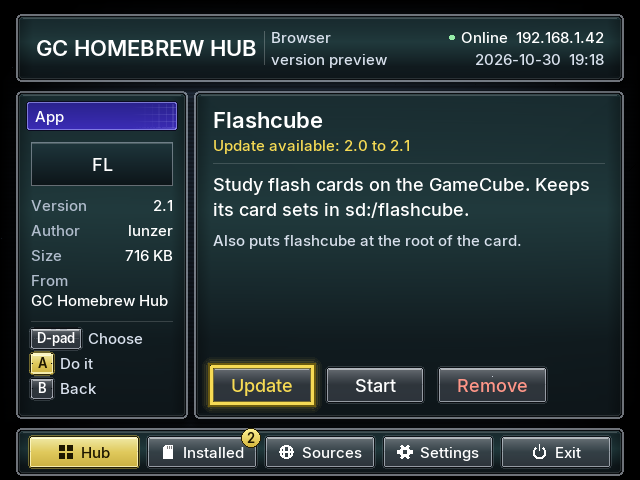
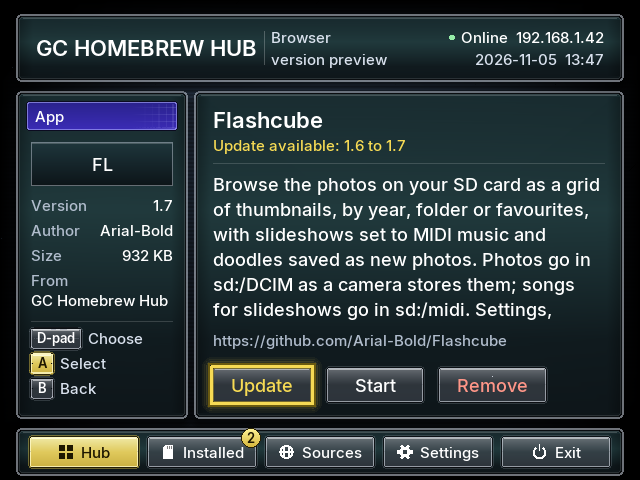
Preview: use a copy of the real catalog
The sample apps were made up, and some had wrong credits: Flashcube was
credited to "lunzer" and described as flash cards. The preview now reads
tools/preview/catalog.json, a copy of the catalog's index.json, and the
README's screenshots are rendered from it. Which apps are installed, and
the extra sources, are still samples, and the README says so.

diff --git a/tools/preview/preview.c b/tools/preview/preview.c
@@ -1,7 +1,8 @@
 /* preview.c - renders the program's screens on a PC, for looking at the UI
  * without a GameCube. The real menu, screens and widgets run against the
- * software GX in gx_soft.c, a made-up card and catalog, and a script of
- * button presses; chosen frames are written as PPM images.
+ * software GX in gx_soft.c, a copy of the real catalog (catalog.json), a
+ * made-up card, and a script of button presses; chosen frames are written as
+ * PPM images.
  *
  * Runs inside a folder with a directory literally named "sd:" (the card). */
 #include "catalog.h"
@@ -70,33 +71,21 @@ u32 input_pressed(void) { return pressed; }
 u32 input_held(void) { return 0; }
 void input_sticks(float *x, float *y, float *cx, float *cy) { *x = stick[0]; *y = stick[1]; *cx = stick[2]; *cy = stick[3]; }
 
-/* ---- a made-up catalog and card ---- */
+/* ---- a copy of the real catalog, and a made-up card ---- */
 
-static const char *index_json =
-"{ \"format\": 1, \"name\": \"GC Homebrew Hub\", \"apps\": ["
-"{\"slug\":\"swiss\",\"name\":\"Swiss\",\"author\":\"emu_kidid\",\"version\":\"0.6r1913\",\"category\":\"utilities\","
-" \"short\":\"The Swiss army knife of GameCube homebrew\",\"long\":\"Boots games and homebrew from SD, network, IDE-EXI and more, with cheats, video mode forcing and a file manager.\",\"archive\":\"http://x/swiss.tar.xz\",\"zip_size\":11199948,"
-" \"replace_at_root\":[{\"file\":\"s/DOL/swiss.dol\",\"to\":\"ipl.dol\",\"archive\":\"swiss_archive\"},"
-" {\"file\":\"s/Apploader/EXTRACT_TO_ROOT.zip!swiss/patches/apploader.img\",\"to\":\"swiss/patches/apploader.img\",\"archive\":\"swiss_archive\"}]},"
-"{\"slug\":\"cubebrowser\",\"name\":\"CubeBrowser\",\"author\":\"Arial-Bold\",\"version\":\"1.4\",\"category\":\"utilities\","
-" \"short\":\"A web browser for the GameCube\",\"long\":\"Browse simple web pages over the Broadband Adapter.\",\"zip\":\"http://x/cb.zip\",\"zip_size\":1887436},"
-"{\"slug\":\"flashcube\",\"name\":\"Flashcube\",\"author\":\"lunzer\",\"version\":\"2.1\",\"category\":\"media\","
-" \"short\":\"Flash cards with thumbnails\",\"long\":\"Study flash cards on the GameCube. Keeps its card sets in sd:/flashcube.\",\"zip\":\"http://x/fc.zip\",\"zip_size\":734003,\"copy_to_root\":[\"flashcube\"]},"
-"{\"slug\":\"gc-mp3\",\"name\":\"GC-MP3\",\"author\":\"various\",\"version\":\"1.1\",\"category\":\"media\","
-" \"short\":\"Plays MP3 files from the SD card\",\"long\":\"A music player.\",\"dol\":\"http://x/mp3.dol\",\"binary\":\"gc-mp3.dol\"},"
-"{\"slug\":\"gbi\",\"name\":\"Game Boy Interface\",\"author\":\"Extrems\",\"version\":\"r1350\",\"category\":\"emulators\","
-" \"short\":\"Game Boy Player software, rebuilt\",\"long\":\"Low-latency Game Boy Player front end.\",\"zip\":\"http://x/gbi.zip\",\"zip_size\":2097152},"
-"{\"slug\":\"pong-cube\",\"name\":\"Pong Cube\",\"author\":\"devkitPro\",\"version\":\"1.0\",\"category\":\"games\","
-" \"short\":\"Two paddles, one ball, four controllers\",\"long\":\"A tiny game.\",\"zip\":\"http://x/pong.zip\",\"zip_size\":102400},"
-"{\"slug\":\"block-drop\",\"name\":\"Block Drop\",\"author\":\"cubedev\",\"version\":\"0.9\",\"category\":\"games\","
-" \"short\":\"Falling blocks\",\"long\":\"Stack them.\",\"zip\":\"http://x/bd.zip\",\"zip_size\":310000},"
-"{\"slug\":\"plasma\",\"name\":\"Plasma Demo\",\"author\":\"scene\",\"version\":\"1.0\",\"category\":\"demos\","
-" \"short\":\"Old-school plasma and a chiptune\",\"long\":\"A demo.\",\"zip\":\"http://x/p.zip\",\"zip_size\":220000},"
-"{\"slug\":\"neogeo-cd\",\"name\":\"Neo-Geo CD Redux\",\"author\":\"megalomaniac\",\"version\":\"1.0.3\",\"category\":\"emulators\","
-" \"short\":\"Neo-Geo CD emulator\",\"long\":\"Plays Neo-Geo CD images.\",\"zip\":\"http://x/ng.zip\",\"zip_size\":1500000},"
-"{\"slug\":\"memcard-pro\",\"name\":\"Memory Card Manager\",\"author\":\"suloku\",\"version\":\"1.4\",\"category\":\"utilities\","
-" \"short\":\"Back up and restore saves\",\"long\":\"Copies memory card saves to and from the SD card.\",\"zip\":\"http://x/mc.zip\",\"zip_size\":420000}"
-"]}";
+static char *read_catalog(size_t *len) {
+    FILE *f = fopen("../catalog.json", "rb");
+    if (!f) { perror("catalog.json"); exit(1); }
+    fseek(f, 0, SEEK_END);
+    long n = ftell(f);
+    rewind(f);
+    char *buf = malloc(n + 1);
+    if (!buf || fread(buf, 1, n, f) != (size_t)n) { perror("catalog.json"); exit(1); }
+    fclose(f);
+    buf[n] = 0;
+    *len = n;
+    return buf;
+}
 
 static void make_card(void) {
     fs_mkdirs("sd:/apps/gc-homebrew-hub-browser");
@@ -115,14 +104,14 @@ static void make_card(void) {
     fs_write_file("sd:/swiss/patches/apploader.img", "img", 3);
     settings_defaults();
     catalog_set_card(true);
+    catalog_set_self("0.4");
     catalog_init("sd:/apps/gc-homebrew-hub-browser");
     char err[96];
     catalog_source_add("https://raw.githubusercontent.com/gc-homebrew-hub/gc-homebrew-hub-catalog/main/index.json", err, sizeof err);
     catalog_source_add("http://192.168.1.20:8765/index.json", err, sizeof err);
     catalog_source_add("https://example.org/gc/index.json", err, sizeof err);
     Source *s = catalog_source(0);
-    snprintf(s->name, sizeof s->name, "GC Homebrew Hub"); s->builtin = true; s->napps = 10;
-    snprintf(s->status, sizeof s->status, "10 apps");
+    snprintf(s->name, sizeof s->name, "GC Homebrew Hub"); s->builtin = true;
     s = catalog_source(1);
     snprintf(s->name, sizeof s->name, "Mac on the LAN"); s->napps = -1;
     snprintf(s->status, sizeof s->status, "Failed: could not connect (timed out)");
@@ -132,16 +121,21 @@ static void make_card(void) {
     App *arr = malloc(sizeof(App) * MAX_APPS);
     int n = 0;
     char name[48];
-    if (!catalog_parse_index(index_json, strlen(index_json), 0, arr, &n, MAX_APPS, name, sizeof name, err, sizeof err))
+    size_t len;
+    char *index_json = read_catalog(&len);
+    if (!catalog_parse_index(index_json, len, 0, arr, &n, MAX_APPS, name, sizeof name, err, sizeof err))
         fprintf(stderr, "index: %s\n", err);
+    free(index_json);
     catalog_replace_apps(arr, n);
-    catalog_installed_set("swiss", "Swiss", "0.6r1900", "swiss", "boot.dol");
-    catalog_installed_set("cubebrowser", "CubeBrowser", "1.4", "cubebrowser", "boot.dol");
-    catalog_installed_set("flashcube", "Flashcube", "2.0", "flashcube", "boot.dol");
-    catalog_installed_set("gc-mp3", "GC-MP3", "1.1", "gc-mp3", "gc-mp3.dol");
-    catalog_installed_set("gbi", "Game Boy Interface", "r1350", "gbi", "boot.dol");
-    catalog_installed_set("plasma", "Plasma Demo", "1.0", "plasma", "boot.dol");
-    catalog_installed_set("memcard-pro", "Memory Card Manager", "1.4", "memcard-pro", "boot.dol");
+    catalog_source(0)->napps = n;
+    snprintf(catalog_source(0)->status, sizeof catalog_source(0)->status, "%d apps", n);
+    /* what this made-up card has: two apps a version behind, the rest current */
+    catalog_installed_set("swiss", "Swiss", "0.6r1900", "swiss", "swiss_r1900.dol");
+    catalog_installed_set("flashcube", "Flashcube", "1.6", "flashcube", "default.dol");
+    catalog_installed_set("cubebrowser", "CubeBrowser", "2.8", "cubebrowser", "default.dol");
+    catalog_installed_set("gcmm", "GCMM", "1.5.2", "gcmm", "gcmm_GC.dol");
+    catalog_installed_set("gcradio", "gcradio", "3.2.0", "gcradio", "gcradio-gui.dol");
+    catalog_installed_set("snes9xgx", "Snes9x GX", "5.0.4", "snes9xgx", "snes9xgx-gc.dol");
     catalog_scan_card();
     catalog_recompute();
 }
@@ -205,7 +199,8 @@ int main(int argc, char **argv) {
 
     idle(10);                                  shot("01-homebrew-hub");
     press(BTN_RIGHT); press(BTN_RIGHT); idle(4); shot("02-hub-emulators");
-    press(BTN_LEFT); press(BTN_LEFT); press(BTN_DOWN); press(BTN_DOWN);
+    press(BTN_LEFT); press(BTN_LEFT);
+    for (int i = 0; i < 5; i++) press(BTN_DOWN);   /* Flashcube */
     press(BTN_A); idle(4);                     shot("03-details");
     busy = true; step_text = "Downloading"; job = "Flashcube"; progress = 0.62f;
     idle(2);                                   shot("04-details-installing");
@@ -223,7 +218,7 @@ int main(int argc, char **argv) {
     press(BTN_X); idle(4); press(BTN_RIGHT); press(BTN_RIGHT); idle(10); shot("10-keyboard");
     press(BTN_START); idle(4);
     section(1); idle(4);                       shot("11-settings");
-    ui_toast("Flashcube 2.1 installed", false);
+    ui_toast("Flashcube 1.7 installed", false);
     ui_toast("Mac on the LAN: could not connect (timed out)", true);
     idle(10);                                  shot("12-toasts");
     idle(180);                                 shot("12b-toast-fading");   /* the first, half gone */
@@ -233,7 +228,7 @@ int main(int argc, char **argv) {
     /* installing Swiss when its boot files are on the card */
     catalog_set_card(true);
     screens_open(SCR_STORE); idle(4);
-    for (int i = 0; i < 12; i++) press(BTN_UP);
+    for (int i = 0; i < 3; i++) press(BTN_DOWN);   /* from Flashcube to Swiss */
     press(BTN_A); idle(4);                     shot("14-swiss-details");
     press(BTN_A); idle(4);                     shot("15-boot-file");
     return 0;

diff --git a/README.md b/README.md
@@ -79,7 +79,8 @@ B goes back to the list. L/R page through long lists, X reloads the catalogs.
 | ![Installed](docs/screenshots/installed.png) | ![Sources](docs/screenshots/sources.png) |
 
 These are renders from `make preview` (below), with the same font textures the
-console draws.
+console draws. The apps are a copy of the real catalog; which ones are
+installed, and the sources other than GC Homebrew Hub, are samples.
 
 Apps install to `sd:/apps/<folder>/`, the layout Swiss uses, so they also show
 up in Swiss. An app's own data folders at the root of the card (for example
@@ -160,8 +161,8 @@ file helpers) with the normal C compiler; no devkitPPC needed.
 
 `make preview` renders the screens to `tools/preview/out/*.png`, also on the
 host: the real menu and screen code runs against a small software version of
-GX (`tools/preview/gx_soft.c`), a made-up card and catalog, and a script of
-button presses. It needs Python 3 with Pillow (to write the PNG files). The
+GX (`tools/preview/gx_soft.c`), a copy of the real catalog
+(`tools/preview/catalog.json`), a made-up card, and a script of button presses. It needs Python 3 with Pillow (to write the PNG files). The
 text comes from the program's own font textures, read in their GX format, so
 it looks as it does on the console. It has no depth buffer, culling or anti-aliasing, which
 the program does not use either, but it is not the console: check new
